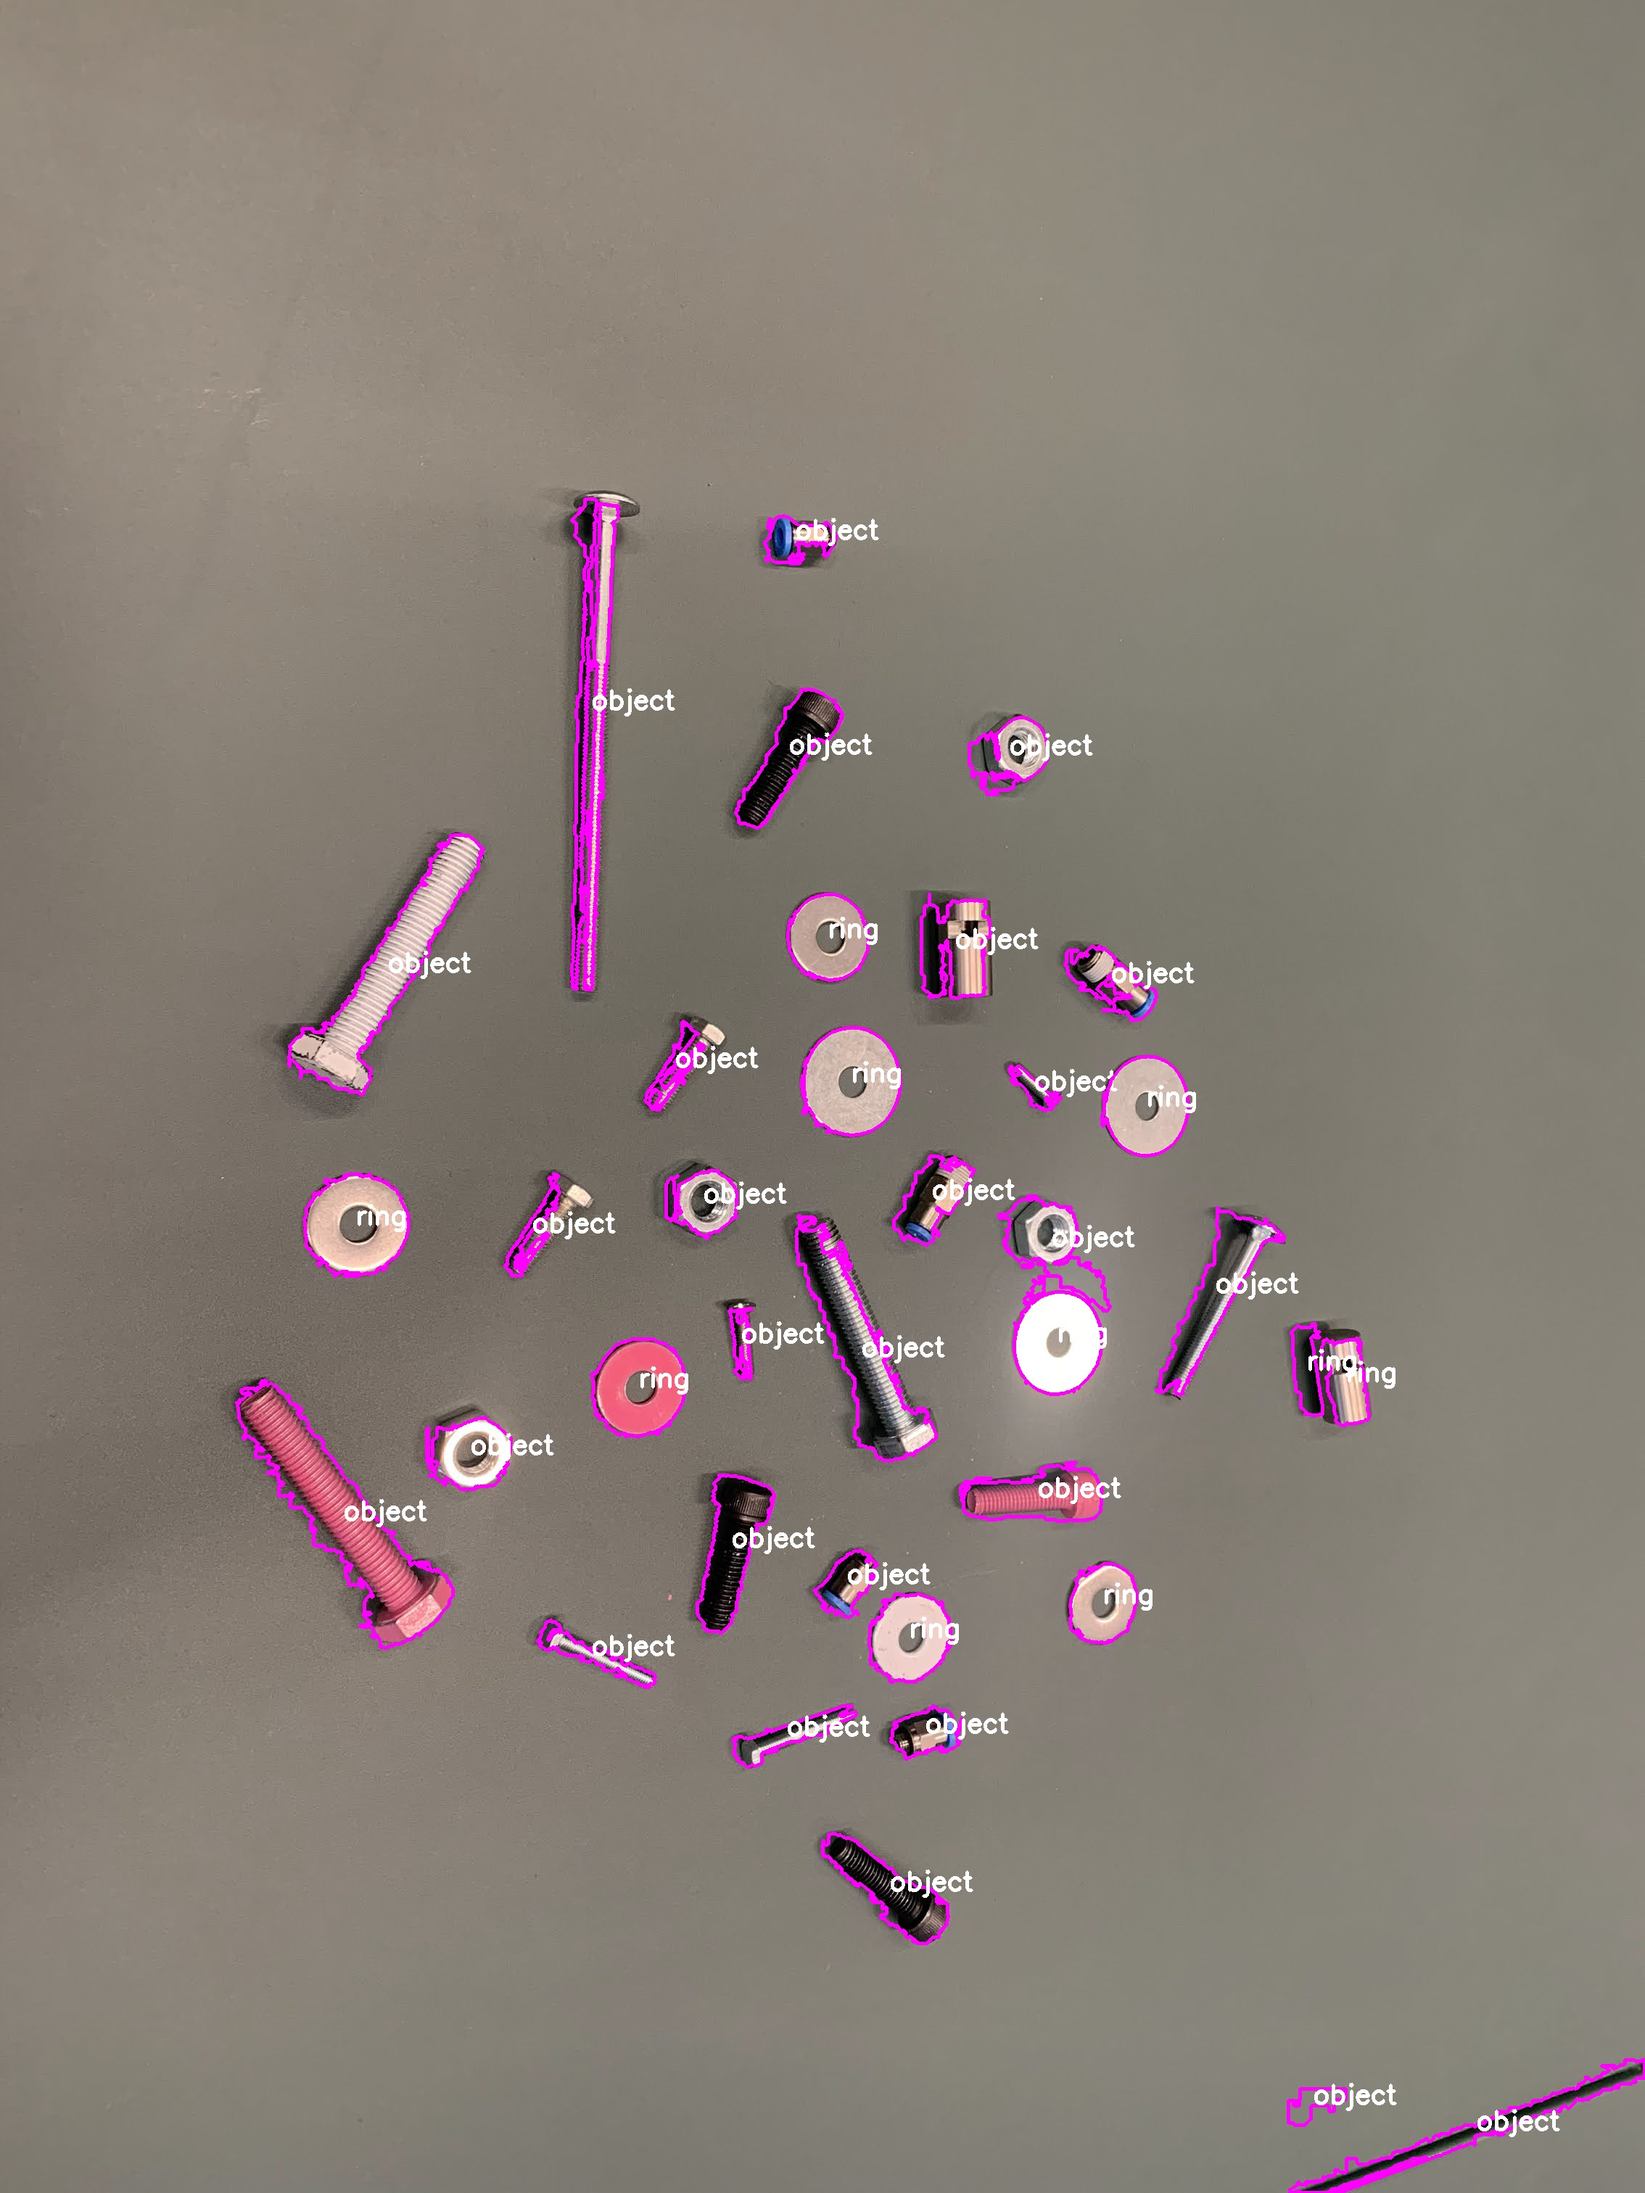
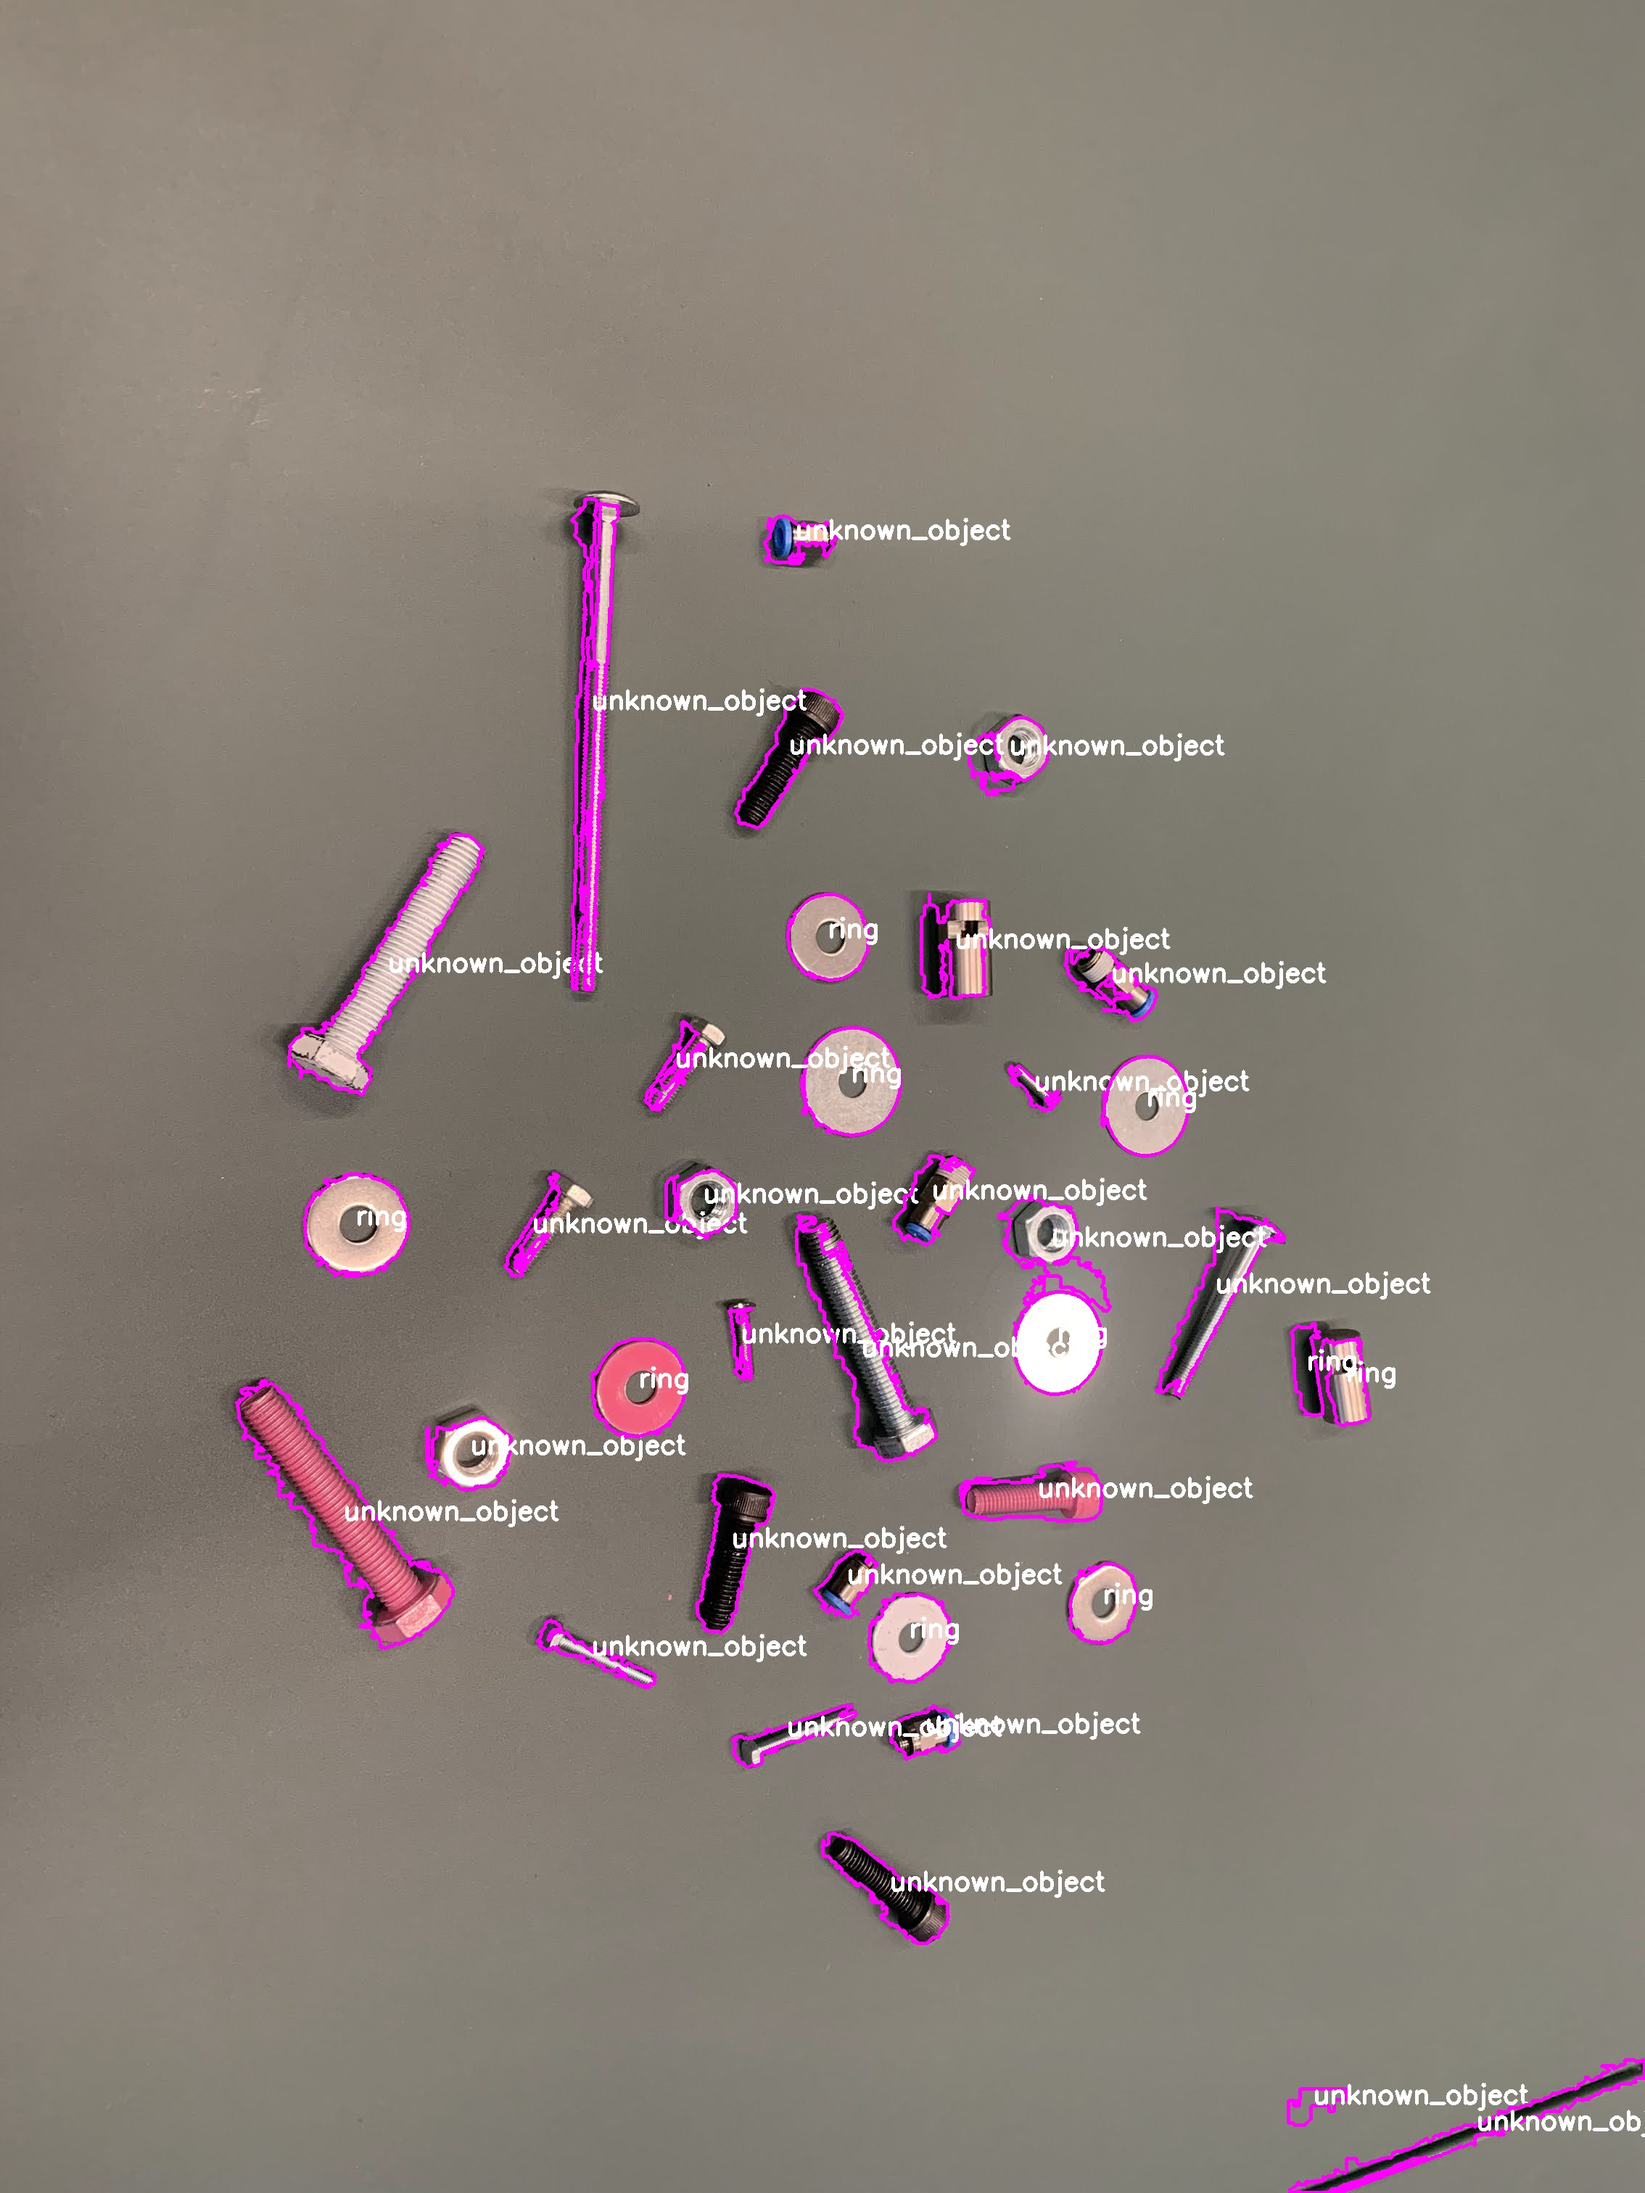
Added .csv to store data, changed naming for better storing

diff --git a/conventional/Conventional.py b/conventional/Conventional.py
@@ -4,6 +4,7 @@ import numpy as np
 import cv2 as cv
 import os
 import glob
+import csv
 from typing import List
 from math import pi
 
@@ -40,12 +41,12 @@ def find_object(contour, moment) -> str:
     if k_value < 3:
         chosen_object = 'ring'
     else:
-        chosen_object = 'object'
+        chosen_object = 'unknown_object'
     return chosen_object
 
 def find_color(contour, original_image) -> str:
     # TODO: Check mean color and compare to pre defined colors
-    return "color"
+    return "unknown_color"
 
 # -=-=-=- VARIABLES -=-=-=- #
 
@@ -133,5 +134,13 @@ for img in images:
     # -=-=- save image -=-=- #
     output_dir  = os.path.join(root_dir,'output_conventional', img.name)
     cv.imwrite(output_dir, img.cv_image)
+    
+    # -=-=- save data to csv -=-=- #
+    # with open('./output_data.csv', 'a', encoding='UTF8', newline='') as csv_file:
+    #     csv_writer = csv.writer(csv_file)
+    #     for contour in range(len(img.contours)):
+    #         csv_writer.writerow((img.name, img.contours[contour].kind_of_object, img.contours[contour].position, img.contours[contour].oriëntation, img.contours[contour].color))
+            
+        
 
 print("done!")

diff --git a/README.md b/README.md
@@ -63,6 +63,7 @@ if there are any problems please open a ticket or send me a message *(The requir
 │   │   ├── img_1.jpg
 │   │   ├── ...
 │   ├── Conventional.py <- file to run for identifying objects and there features using conventional methods
+│   ├── output_data.csv <- output file where you can find data of every contour in the images
 │
 ├── deep_learning
 │   ├── dataset <- our dataset (roughly 450 images)
